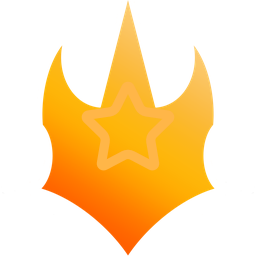
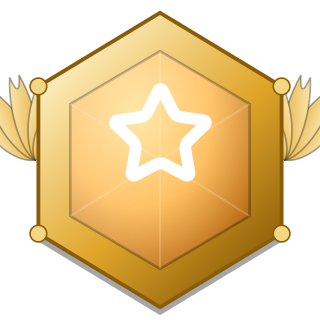
fix(achievements): rebuild badges as ornate medallions, not flat crests
Client correction, 2026-08-17: the first pass reused the flat
marketplace rarity crest PNGs as the badge frame, which read as a
rarity label, not a collectible badge. Reference images supplied were
mobile-game rank/medal asset packs (gem set in a beveled metal frame,
gold rivets, wings on the top tier).

New features/achievements/components/badge-frame.tsx — an original SVG
badge in that genre (hex gem, metal bezel gradient, gold rivets, facet
lines, specular highlight, drop shadow), tinted to KOBA's own six
rarity hues rather than copied from any specific reference asset.
Legendary and Relic tiers get feathered wings fanning from the sides;
Relic adds sparkle accents. Renders as inline SVG (no raster asset),
scales cleanly at any size.

docs/badges/*.png regenerated from the new component for the reference
sheet (rendered via the actual React component + lucide icons, not
redrawn by hand, so they stay pixel-accurate to the app).

diff --git a/features/achievements/components/badge-frame.tsx b/features/achievements/components/badge-frame.tsx
@@ -1,0 +1,216 @@
+import React, { useId } from "react";
+import type { ProductRarity } from "@/features/marketplace/lib/catalog";
+
+/**
+ * Ornate game-badge medallion — hex gem set in a beveled metal frame,
+ * with wings on the two hardest-earned tiers. Client correction
+ * (2026-08-17): the first pass reused the flat marketplace rarity crest
+ * PNGs as the badge frame; that read as a "rarity label", not a
+ * collectible badge. Reference images supplied were mobile-game rank/
+ * medal asset packs (gem-in-metal-frame, wings on the top tier, gold
+ * rivets) — this is an original SVG built in that genre, tinted to
+ * KOBA's own six rarity hues (not a copy of any specific reference
+ * asset), rather than a raster import.
+ *
+ * Pure presentation — no data. `AchievementBadge` layers the lucide icon
+ * glyph on top of this.
+ */
+
+type TierPalette = {
+  metalLight: string;
+  metalMid: string;
+  metalDark: string;
+  gemLight: string;
+  gemMid: string;
+  gemDark: string;
+  wings: boolean;
+  sparkle: boolean;
+};
+
+const TIER_PALETTE: Record<ProductRarity, TierPalette> = {
+  COMMON: {
+    metalLight: "#d6d7dc",
+    metalMid: "#9a9ca6",
+    metalDark: "#54565f",
+    gemLight: "#c7c8d1",
+    gemMid: "#8b8a9c",
+    gemDark: "#4a4a56",
+    wings: false,
+    sparkle: false,
+  },
+  UNCOMMON: {
+    metalLight: "#c9d9c8",
+    metalMid: "#5f9a6f",
+    metalDark: "#2c4f34",
+    gemLight: "#7ce8a4",
+    gemMid: "#1fbf6c",
+    gemDark: "#0e6b3c",
+    wings: false,
+    sparkle: false,
+  },
+  RARE: {
+    metalLight: "#cfe6f2",
+    metalMid: "#4ea3c9",
+    metalDark: "#255e79",
+    gemLight: "#8fe0fb",
+    gemMid: "#33c1f0",
+    gemDark: "#12678a",
+    wings: false,
+    sparkle: false,
+  },
+  EPIC: {
+    metalLight: "#e3d0f5",
+    metalMid: "#9a5fd6",
+    metalDark: "#4f2b78",
+    gemLight: "#d59bff",
+    gemMid: "#b451f0",
+    gemDark: "#6c1fa3",
+    wings: false,
+    sparkle: false,
+  },
+  LEGENDARY: {
+    metalLight: "#fff0c2",
+    metalMid: "#e0a52a",
+    metalDark: "#8a5c07",
+    gemLight: "#ffe08a",
+    gemMid: "#ffb648",
+    gemDark: "#b6650a",
+    wings: true,
+    sparkle: false,
+  },
+  RELIC: {
+    metalLight: "#ffd7d9",
+    metalMid: "#e0396a",
+    metalDark: "#7a0f30",
+    gemLight: "#ff8fa3",
+    gemMid: "#ff2469",
+    gemDark: "#8f0a35",
+    wings: true,
+    sparkle: true,
+  },
+};
+
+// A pointed hexagon ("gem cut") in a 100x100 viewBox — the recurring
+// silhouette across every reference image (hex/shield gem set in metal).
+const GEM_OUTER = "M50 4 L88 27 L88 73 L50 96 L12 73 L12 27 Z";
+const GEM_INNER = "M50 16 L78 32.5 L78 67.5 L50 84 L22 67.5 L22 32.5 Z";
+
+// A single tapering feather blade, repeated in a fan from a shared root
+// at the hex's side rivet — reads clearly as a wing at badge scale, unlike
+// a single scalloped outline (first pass: too thin, blended into the
+// backdrop). Dark outline keeps it legible over both light and dark
+// surfaces regardless of the tier's metal tone.
+function Feather({ rotate, length }: { rotate: number; length: number }) {
+  return (
+    <path
+      d={`M0 0 C -3 -2.5, -5 -${length * 0.55}, -1.5 -${length} C -0.6 -${length * 0.8}, 0.6 -${length * 0.8}, 1.5 -${length} C 5 -${length * 0.55}, 3 -2.5, 0 0 Z`}
+      transform={`rotate(${rotate})`}
+      stroke="rgba(0,0,0,0.35)"
+      strokeWidth="0.5"
+    />
+  );
+}
+
+function Wing({ side, gradientId }: { side: "left" | "right"; gradientId: string }) {
+  const flip = side === "left" ? "scale(-1,1) translate(-100,0)" : undefined;
+  // Root sits just outside the hex's left rivet (12,27)/(12,73) midpoint,
+  // fanning up and outward — five feathers, longest in the middle.
+  return (
+    <g transform={flip} fill={`url(#${gradientId})`}>
+      <g transform="translate(11,50)">
+        <Feather rotate={-52} length={19} />
+        <Feather rotate={-34} length={24} />
+        <Feather rotate={-14} length={27} />
+        <Feather rotate={6} length={24} />
+        <Feather rotate={24} length={19} />
+      </g>
+    </g>
+  );
+}
+
+export function BadgeFrame({
+  rarity,
+  size = 96,
+  className,
+}: {
+  rarity: ProductRarity;
+  size?: number;
+  className?: string;
+}) {
+  const uid = useId().replace(/[^a-zA-Z0-9]/g, "");
+  const palette = TIER_PALETTE[rarity];
+  const metalGrad = `metal-${uid}`;
+  const gemGrad = `gem-${uid}`;
+  const glossGrad = `gloss-${uid}`;
+  const wingGrad = `wing-${uid}`;
+
+  return (
+    <svg
+      viewBox="0 0 100 100"
+      width={size}
+      height={size}
+      className={className}
+      role="img"
+      aria-hidden
+    >
+      <defs>
+        <linearGradient id={metalGrad} x1="15%" y1="10%" x2="85%" y2="95%">
+          <stop offset="0%" stopColor={palette.metalLight} />
+          <stop offset="55%" stopColor={palette.metalMid} />
+          <stop offset="100%" stopColor={palette.metalDark} />
+        </linearGradient>
+        <radialGradient id={gemGrad} cx="38%" cy="30%" r="75%">
+          <stop offset="0%" stopColor={palette.gemLight} />
+          <stop offset="55%" stopColor={palette.gemMid} />
+          <stop offset="100%" stopColor={palette.gemDark} />
+        </radialGradient>
+        <linearGradient id={glossGrad} x1="0%" y1="0%" x2="100%" y2="100%">
+          <stop offset="0%" stopColor="#ffffff" stopOpacity="0.55" />
+          <stop offset="100%" stopColor="#ffffff" stopOpacity="0" />
+        </linearGradient>
+        <linearGradient id={wingGrad} x1="0%" y1="0%" x2="100%" y2="100%">
+          <stop offset="0%" stopColor={palette.metalLight} />
+          <stop offset="100%" stopColor={palette.metalMid} />
+        </linearGradient>
+      </defs>
+
+      {palette.wings ? (
+        <>
+          <Wing side="left" gradientId={wingGrad} />
+          <Wing side="right" gradientId={wingGrad} />
+        </>
+      ) : null}
+
+      {/* Drop shadow */}
+      <path d={GEM_OUTER} fill="rgba(0,0,0,0.35)" transform="translate(0,2.5)" />
+
+      {/* Metal bezel */}
+      <path d={GEM_OUTER} fill={`url(#${metalGrad})`} stroke={palette.metalDark} strokeWidth="1.2" />
+
+      {/* Gold rivets at the widest points */}
+      <circle cx="12" cy="27" r="2.6" fill="#f4d783" stroke="#8a5c07" strokeWidth="0.5" />
+      <circle cx="88" cy="27" r="2.6" fill="#f4d783" stroke="#8a5c07" strokeWidth="0.5" />
+      <circle cx="12" cy="73" r="2.6" fill="#f4d783" stroke="#8a5c07" strokeWidth="0.5" />
+      <circle cx="88" cy="73" r="2.6" fill="#f4d783" stroke="#8a5c07" strokeWidth="0.5" />
+
+      {/* Gem */}
+      <path d={GEM_INNER} fill={`url(#${gemGrad})`} stroke="rgba(0,0,0,0.3)" strokeWidth="0.8" />
+      {/* Facet lines for a cut-gem read */}
+      <path
+        d="M50 16 L50 84 M22 32.5 L50 50 L78 32.5 M22 67.5 L50 50 L78 67.5"
+        stroke="rgba(255,255,255,0.18)"
+        strokeWidth="0.6"
+        fill="none"
+      />
+      {/* Specular highlight */}
+      <path d={GEM_INNER} fill={`url(#${glossGrad})`} opacity="0.7" />
+
+      {palette.sparkle ? (
+        <>
+          <path d="M20 18 l1.4 3.4 3.4 1.4 -3.4 1.4 -1.4 3.4 -1.4 -3.4 -3.4 -1.4 3.4 -1.4 Z" fill="#fff3d0" />
+          <path d="M80 78 l1 2.4 2.4 1 -2.4 1 -1 2.4 -1 -2.4 -2.4 -1 2.4 -1 Z" fill="#fff3d0" />
+        </>
+      ) : null}
+    </svg>
+  );
+}

diff --git a/features/achievements/components/achievement-badge.tsx b/features/achievements/components/achievement-badge.tsx
@@ -1,4 +1,3 @@
-import Image from "next/image";
 import {
   Award,
   BadgeCheck,
@@ -23,7 +22,7 @@ import {
   type LucideIcon,
 } from "lucide-react";
 import { cn } from "@/lib/utils";
-import { RARITY_ICON_SRC } from "@/features/marketplace/components/rarity-chip";
+import { BadgeFrame } from "@/features/achievements/components/badge-frame";
 import type { ProductRarity } from "@/features/marketplace/lib/catalog";
 
 // Named imports only (not `import * as icons`) — every icon used by
@@ -60,20 +59,6 @@ const badgeSize: Record<"sm" | "md" | "lg", { frame: string; glyph: string; glyp
   sm: { frame: "h-12 w-12", glyph: "h-5 w-5", glyphPx: 20 },
   md: { frame: "h-16 w-16", glyph: "h-7 w-7", glyphPx: 28 },
   lg: { frame: "h-24 w-24", glyph: "h-10 w-10", glyphPx: 40 },
-};
-
-// Same six-tier color scale as the marketplace rarity chips
-// (features/marketplace/components/rarity-chip.tsx) — the glyph overlay is
-// tinted to match its crest instead of a flat white, and only the two
-// hardest-to-earn tiers get an animated glow (client spec: "the harder to
-// earn badges need animated effects").
-const glyphColorClass: Record<ProductRarity, string> = {
-  COMMON: "text-rarity-common",
-  UNCOMMON: "text-rarity-uncommon",
-  RARE: "text-rarity-rare",
-  EPIC: "text-rarity-epic",
-  LEGENDARY: "text-rarity-legendary",
-  RELIC: "text-rarity-relic",
 };
 
 const glowClass: Record<ProductRarity, string> = {
@@ -117,22 +102,18 @@ export function AchievementBadge({
       title={unlocked ? `${name} — ${description}` : `Locked — ${description}`}
     >
       <div className={cn("relative shrink-0", frame, !unlocked && "opacity-35 grayscale")}>
-        <Image
-          src={RARITY_ICON_SRC[rarity]}
-          alt=""
-          width={glyphPx * 3}
-          height={glyphPx * 3}
-          className={cn("h-full w-full object-contain", unlocked && glowClass[rarity])}
-          aria-hidden
+        <BadgeFrame
+          rarity={rarity}
+          size={glyphPx * 3}
+          className={cn("h-full w-full", unlocked && glowClass[rarity])}
         />
         <Icon
           aria-hidden
           className={cn(
-            "absolute top-1/2 left-1/2 -translate-x-1/2 -translate-y-1/2",
+            "absolute top-1/2 left-1/2 -translate-x-1/2 -translate-y-1/2 text-white drop-shadow-[0_1px_2px_rgba(0,0,0,0.55)]",
             glyph,
-            unlocked ? glyphColorClass[rarity] : "text-muted",
           )}
-          strokeWidth={2.25}
+          strokeWidth={2.5}
         />
       </div>
       <span className="sr-only">{unlocked ? name : `${name} (locked)`}</span>
